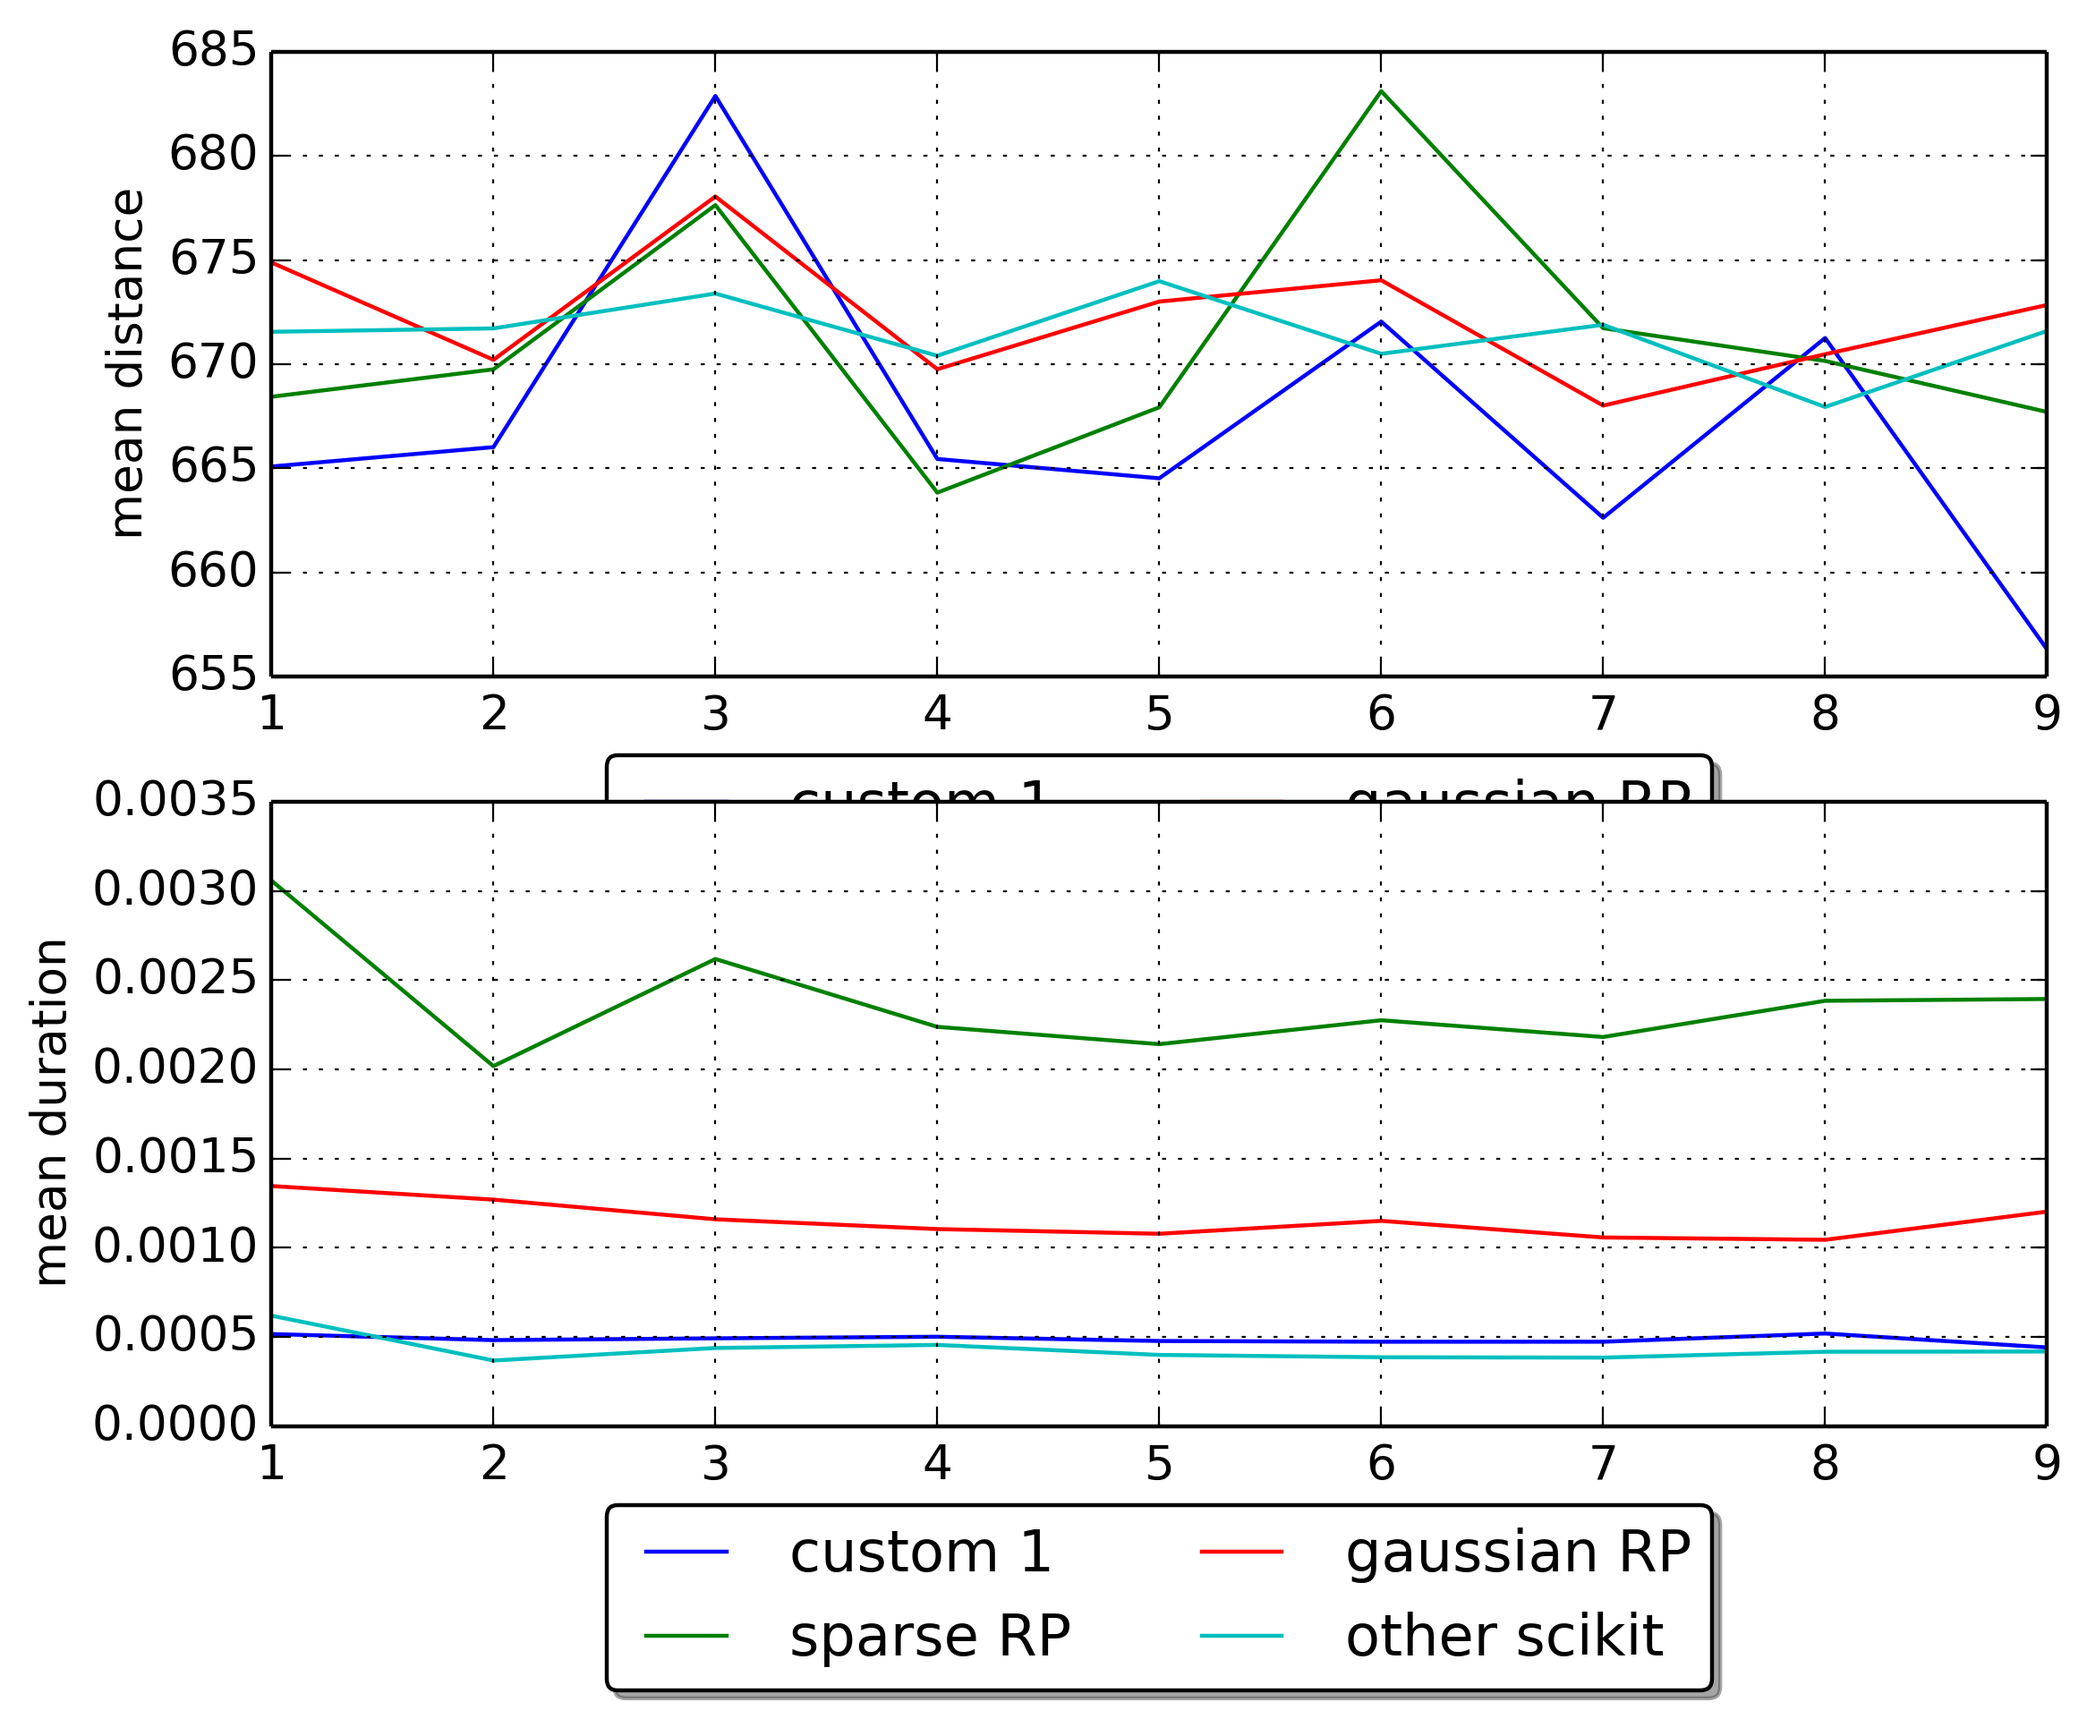
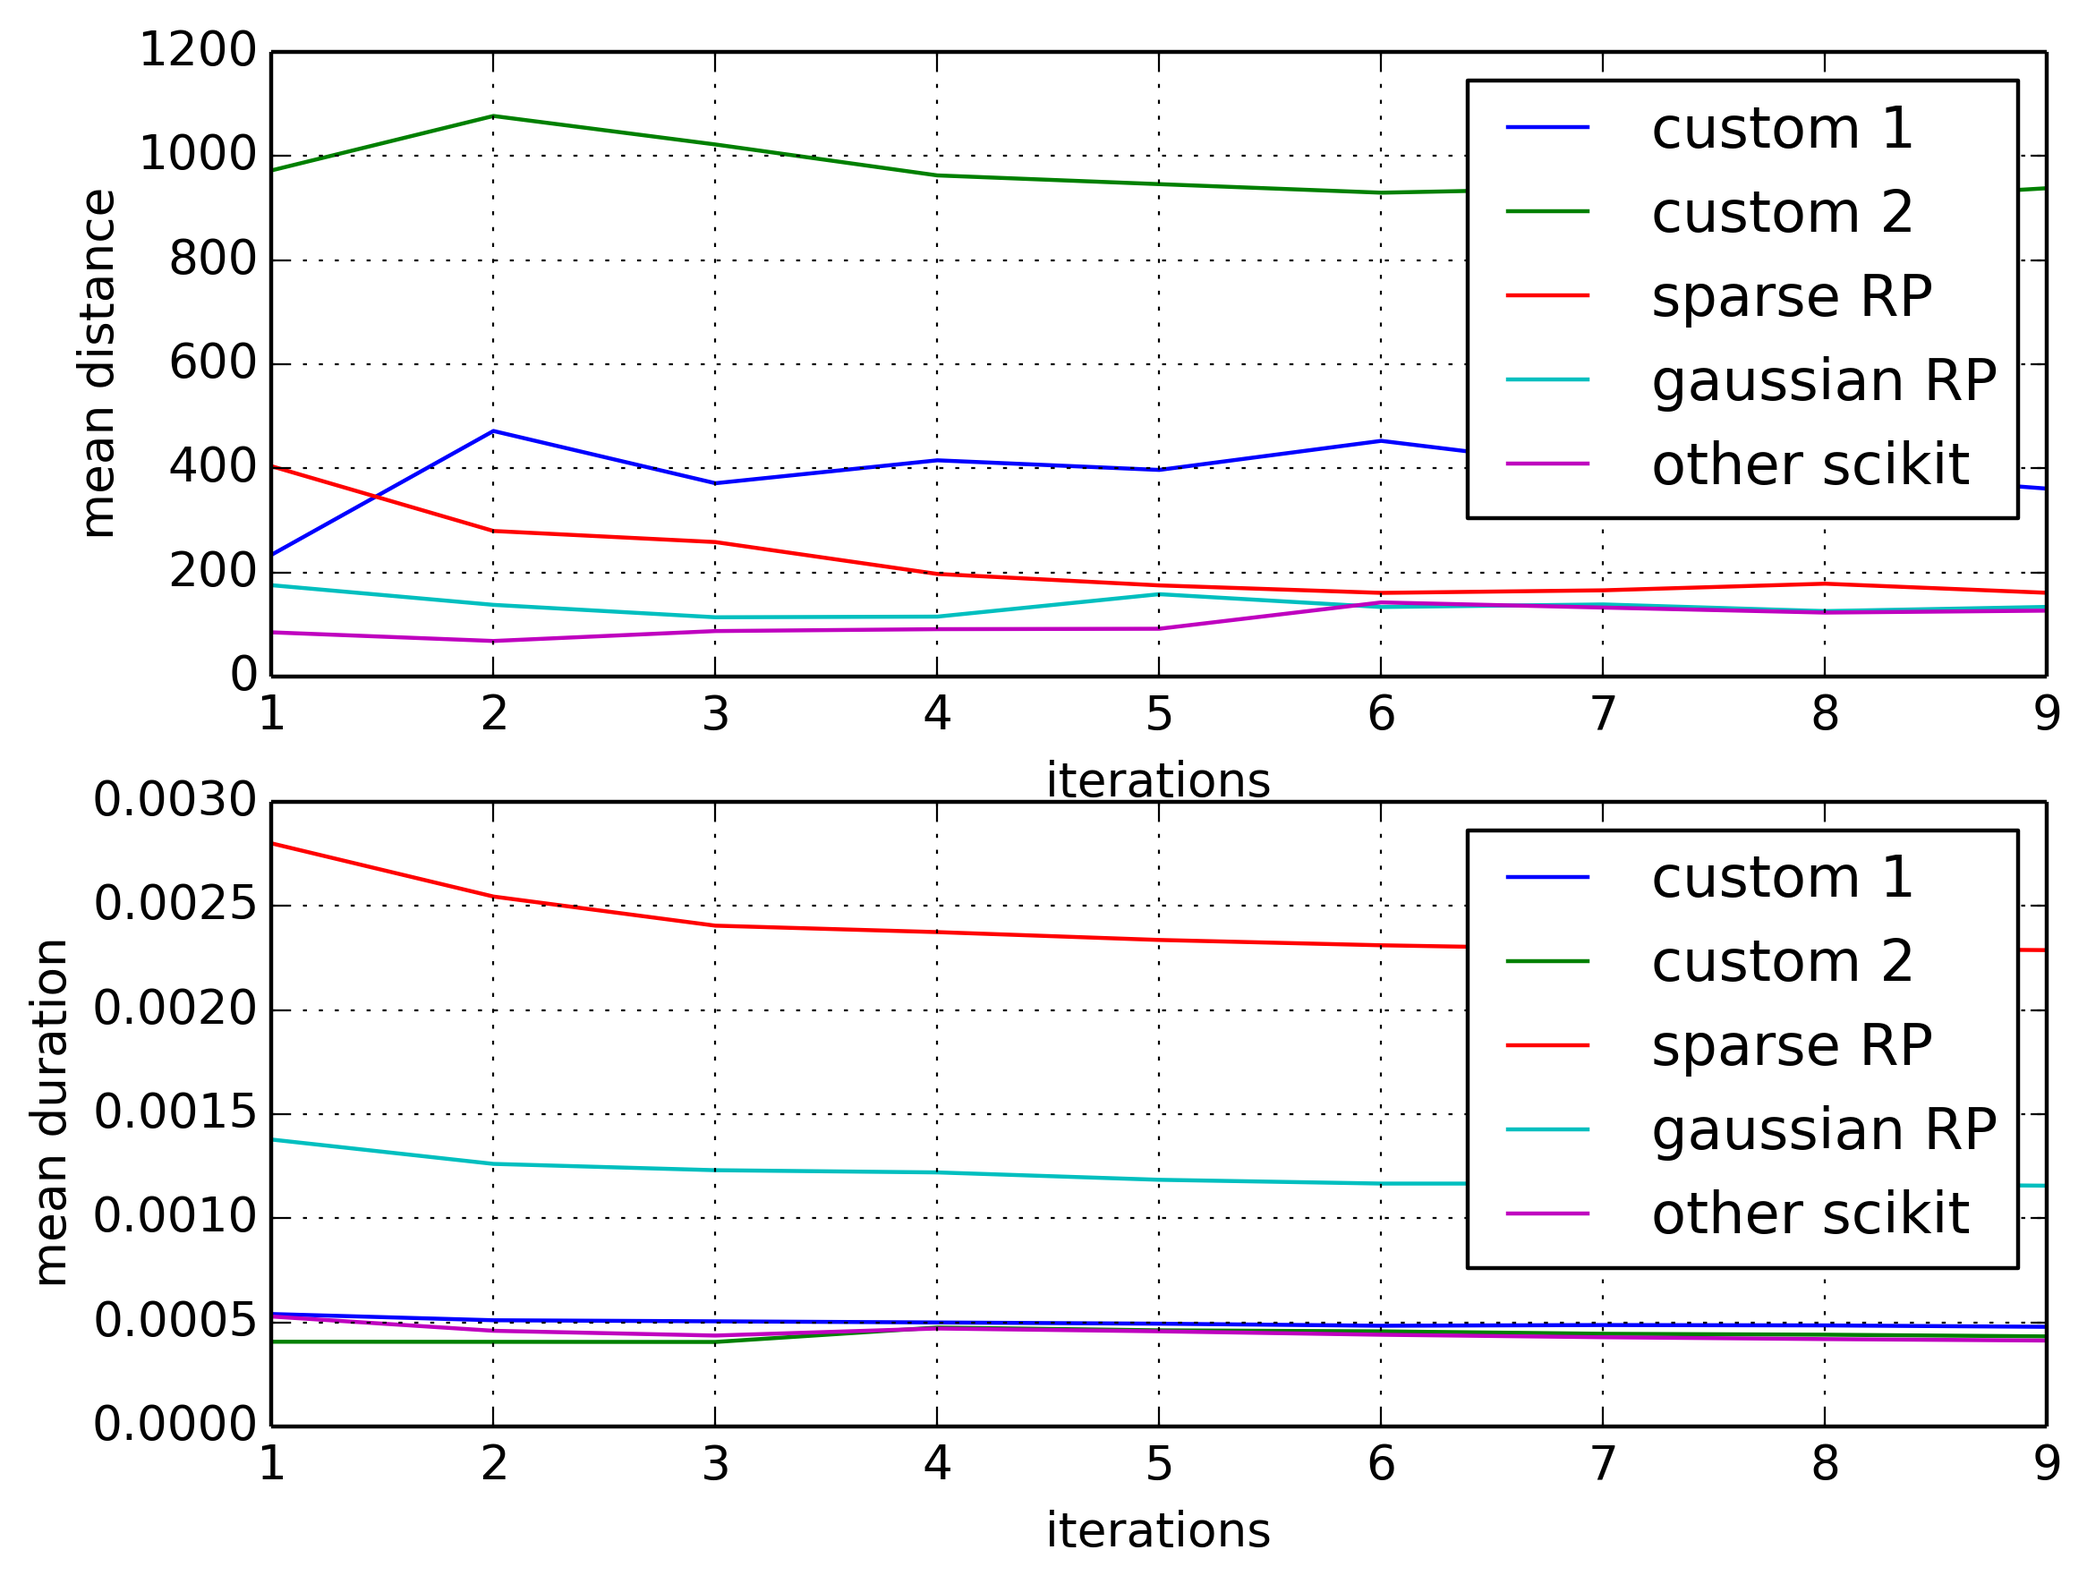
refactoring

diff --git a/random_projection.py b/random_projection.py
@@ -4,24 +4,55 @@ from scipy.spatial.distance import euclidean
 import data_factory as df
 import time
 import random
+from sklearn.preprocessing import OneHotEncoder
 
 import matplotlib
 matplotlib.use('Agg')
 import matplotlib.pyplot as plt
 import time
 import os
+import sys
 
-new_dimension = 10
+'''
+    compare different implementations of random projection
+    usage:
 
-#data = [[2,30,2,10,2,3,1,2,3,21,3,12,3,3,12,3,123,213,213,2],
-#        [25,3,20,1,20,35,1,2,3,21,3,172,3,3,12,3,1723,213,213,72]]
+    dataset is:
+    - https://archive.ics.uci.edu/ml/machine-learning-databases/breast-cancer-wisconsin/
 
-#data, label, desc, size = df.loadFifthPlistaDataset()
+    $ ptyhon random_projection.py iterations 10
+
+
+'''
+
+if len(sys.argv) != 2:
+    print "only / max one param allowed"
+    exit()
+
+params = sys.argv
+
+id = params[1]
+
+if not all.has_key(id):
+    print "experiment with id '%s' not found" % id
+    exit()
+
+run.execute(all[id])
+
+
+
 data, label, desc, size = df.loadFirstCancerDataset()
 
-orig_rows = len(data)
+enc = OneHotEncoder()
+enc.fit(data)
+dataReduced = enc.transform(data).toarray()
 
-# calc n*n matrix (distances between ALL points
+print np.shape(data)
+print np.shape(dataReduced)
+
+'''
+# amount of rows
+orig_rows = len(data)
 origDistances = np.empty((orig_rows, orig_rows))
 
 items = range(len(data))
@@ -32,23 +63,13 @@ for i in items:
         else:
             origDistances[i][j] = euclidean(data[i], data[j])
 
-#a = data[0]
-#b = data[0]
-
 if hasattr(data, "toarray"):
     data = data.toarray()
 
 orig_dimension = len(data[0])
 
-print '--------'
-print type(data)
-print np.shape(data)
-print np.shape(data[0])
-print np.shape(data[1])
-
-
+# compare original data with reduced data
 def measureDistances(data, reduced, desc):
-
 
     a = np.shape(data)
     b = np.shape(reduced)
@@ -59,47 +80,46 @@ def measureDistances(data, reduced, desc):
     items = range(b[0])
     for i in items:
         for j in items:
-            #if i == j:
-            newDistancs[i][j] = 0
-            #else:
-            if i % 5 == 0 and j % 10 == 0:
+            if i == j:
+                newDistancs[i][j] = 0
+            else:
+            #if i % 5 == 0 and j % 10 == 0:
                 newDistancs[i][j] = euclidean(reduced[i], reduced[j])
 
     # compare item by item
     meanDistance = np.abs(np.mean(origDistances - newDistancs))
-
-    #aa = np.shape(origDistances)
-    #bb = np.shape(newDistancs)
-
-    #d1 =  euclidean(data[0], data[1])
-    #d2 =  euclidean(reduced[0], reduced[1])
     return meanDistance
 
+# measure duration and run the reduction
 def reduceAndMeasure(action, data):
     start = time.time()
     reduced = action(data)
     duration = time.time() - start
-
     return reduced, duration
 
-def gaussianRP(data):
+# scikit-learn implementation: gaussian matrix
+def gaussianRP(data, new_dimension):
     rp = GaussianRandomProjection(n_components=new_dimension)
     return rp.fit_transform(data)
 
-def sparseRP(data):
+# scikit-learn implementation: sparse matrix
+def sparseRP(data, new_dimension):
     rp = SparseRandomProjection(n_components=new_dimension)
     return rp.fit_transform(data)
 
-def otherScikitImpls(data):
+# just extract the random matrix from the api
+def otherScikitImpl(data, new_dimension):
     rp = GaussianRandomProjection(n_components=new_dimension)
     m = rp._make_random_matrix(new_dimension, orig_dimension)
     m = np.mat(m)
     reduced = m * np.mat(data).transpose()
-
     reduced = reduced.transpose()
     return reduced
 
-def custom1(data):
+random = np.random.mtrand._rand
+
+# naive implementation of the random matrix
+def custom1(data, new_dimension):
     minusOne = 0.1
     one = 0.9
     rows = len(data)
@@ -118,41 +138,51 @@ def custom1(data):
     reduced = np.mat(data) * m
     return reduced
 
+# non-sense implementation for comparison
+def custom2(data, new_dimension):
+    m = np.empty((orig_dimension, new_dimension))
+    for i in range(len(m)):
+        for j in range(len(m[i])):
+            m[i][j] = random.random()
+
+    reduced = np.mat(data) * m
+    return reduced
 
 actions = {
     "gaussian RP": gaussianRP,
     "sparse RP": sparseRP,
-    "other scikit": otherScikitImpls,
-    "custom 1": custom1
+    "other scikit": otherScikitImpl,
+    "custom 1": custom1,
+    "custom 2": custom2
 }
 
 
 
 results = dict()
 
-
+# 10 iterations
 x = np.arange(1,10)
 for key in actions.iterkeys():
-
+    print key
     durations = list()
     distances = list()
+    di = list()
+    du = list()
     for i in x:
-
+        print " %s" % i
         action = actions[key]
 
         reduced, d = reduceAndMeasure(action, data)
         dist = measureDistances(data, reduced, key)
-        durations.append(d)
-        distances.append(dist)
+        du.append(d)
+        di.append(dist)
 
-        #print "%s -> %s" % (key, duration)
-        #print np.shape(reduced)
+        durations.append(np.mean(du))
+        distances.append(np.mean(di))
 
-        #print
     results[key] = dict()
     results[key]["durations"] = durations
     results[key]["distances"] = distances
-
 
 
 plt.subplot(211)
@@ -164,7 +194,7 @@ for key in results.iterkeys():
     plt.plot(x, results[key]["distances"], label=key)
 
 plt.legend(loc="best")
-plt.legend(loc='upper center', bbox_to_anchor=(0.5, -0.08), fancybox=True, shadow=True, ncol=2)
+#plt.legend(loc='upper center', bbox_to_anchor=(0.5, -0.08), fancybox=True, shadow=True, ncol=2)
 
 plt.subplot(212)
 plt.grid()
@@ -180,56 +210,5 @@ plt.legend(loc="best")
 outputFolder = os.path.dirname(os.path.abspath(__file__))
 outputFolder = "%s/output" % outputFolder
 
-plt.savefig( "%s/rp.png" % outputFolder, dpi=320, bbox_inches = "tight")
-
-
-'''
-reduced, dA = gaussianRP(data)
-durationA.append(dA)
-
-reduced2, dB = otherScikitImpls(data, dimensions)
-durationB.append(dB)
-
-reduced3, dC = sparseRP(data)
-durationC.append(dC)
-
-dist = euclidean(reduced[0], reduced[1])
-dist2 = euclidean(reduced2[0], reduced2[1])
-dist3 = euclidean(reduced3[0], reduced3[1])
-distancesA.append(dist)
-distancesB.append(dist2)
-distancesC.append(dist3)
-
-print "%s -> %s(%s) / %s(%s) / %s(%s)" % (origDist, np.abs(origDist-np.mean(distancesA)), np.sum(durationA) / i+1, np.abs(origDist-np.mean(distancesB)), np.sum(durationB) / i+1, np.abs(origDist-np.mean(distancesC)), np.sum(durationC) / i+1)
-'''
-
-'''
-below = .0
-null = .0
-above = .0
-for i in m:
-    for item in i:
-        if item < 0:
-            below = below+1
-        elif item > 0:
-            above = above+1
-        else:
-            null = null + 1
-
-sum = below + null + above
-
-print below
-print "%0.2f" % (below / sum)
-
-print null
-print "%0.2f" % (null / sum)
-
-print above
-print "%0.2f" % (above / sum)
-
-print "----"
-print sum
-
-print m
-
+plt.savefig( "%s/rp_1.png" % outputFolder, dpi=320, bbox_inches = "tight")
 '''
